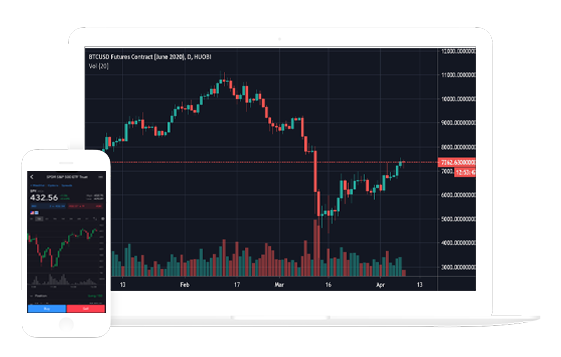
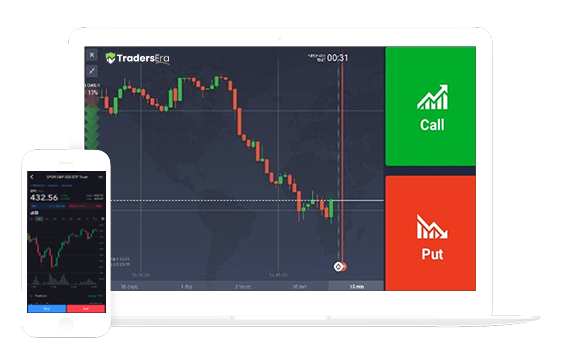
Header

diff --git a/index.php b/index.php
@@ -96,7 +96,7 @@
         <div class="container">
             <div class="row">
                 <div class="col-lg-4 align-self-center">
-                    <img style="height:300px; width:300px;" src="images/about/09.png" class="img-fluid" alt="">
+                    <img style="height:300px; width:500px;" src="images/landing 1.png" class="img-fluid" alt="">
                 </div>
                 <div class="col-lg-8 align-self-center mt-5 mt-lg-0">
                     <div class="heading-title left">
@@ -196,11 +196,11 @@
                 <div class="col-lg-4 r9-mt-40">
                     <div class="fancy-box">
                         <div class="heading">
-                            <h4>Chat support</h4>
+                            <h4>Hassle-free trading</h4>
                         </div>
                         <br>
                         <p>
-                        <h5>Interact with ChatGPT for trading tactics and news.</h5>
+                        <h5>Enjoy ease with binary options.</h5>
                         </p>
                     </div>
                 </div>
@@ -216,7 +216,7 @@
                                         d="M12 2a10 10 0 1 0 10 10A10.011 10.011 0 0 0 12 2zm0 18a8 8 0 1 1 8-8 8.009 8.009 0 0 1-8 8z"
                                         style="fill:#1c1b1e" />
                                 </g>
-                            </svg>Yes I Want To Open An Account</a>
+                            </svg>I'm interested in opening an account</a>
                     </div>
                 </div>
             </div>
@@ -229,7 +229,7 @@
                 <div class="col-sm-12">
                     <div class="heading-title">
                         <!-- <small class="iq-font-green">Benefits</small> -->
-                        <h2 class="title iq-mt-50">Binary Trading Options Features</h2>
+                        <h2 class="title iq-mt-50">Trading Benefits with TradersEra</h2>
                     </div>
                 </div>
             </div>
@@ -433,7 +433,8 @@
                                         d="M12 2a10 10 0 1 0 10 10A10.011 10.011 0 0 0 12 2zm0 18a8 8 0 1 1 8-8 8.009 8.009 0 0 1-8 8z"
                                         style="fill:#1c1b1e" />
                                 </g>
-                            </svg>Want To Open An Account</a>
+                            </svg>OPEN AN ACCOUNT
+                        </a>
                     </div>
                 </div>
             </div>
@@ -499,7 +500,7 @@
         <div class="container">
             <div class="row flex-row-reverse ">
                 <div class="col-lg-6 align-self-center">
-                    <img src="images/about/08.png" class="img-fluid" alt="">
+                    <img src="images/landing 2.png" class="img-fluid" alt="">
                 </div>
                 <div class="col-lg-6 align-self-center mt-5 mt-lg-0">
                     <div class="heading-title left">
